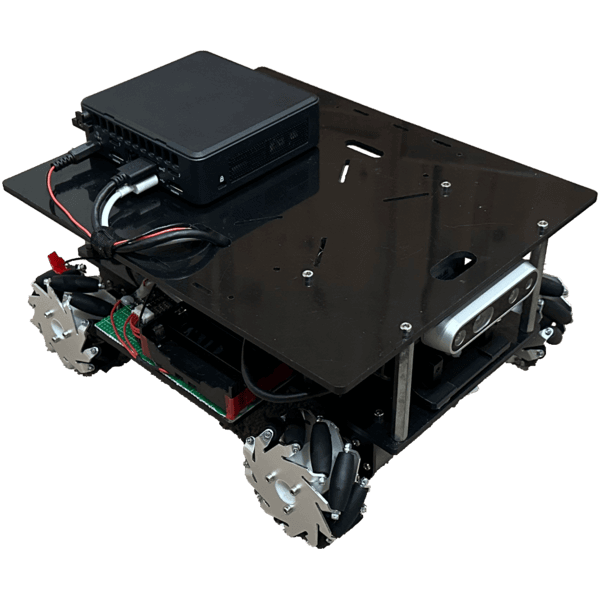
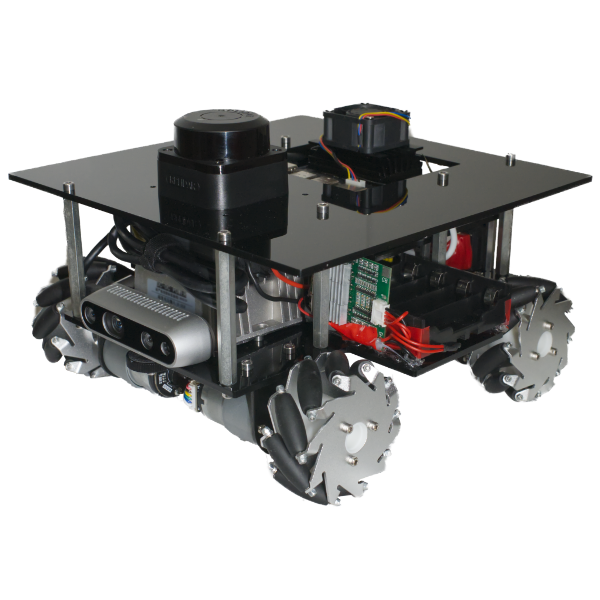
Update LGDXRobot2 (#299)
* feat:update lgdxrobot2

diff --git a/_posts/2025-02-16-lgdxrobot2.md b/_posts/2025-02-16-lgdxrobot2.md
@@ -5,7 +5,7 @@ date: 2025-02-16
 description:
 icon: /assets/img/robots/lgdxrobot2/icon.png
 image: /assets/img/robots/lgdxrobot2/image.png
-introduction: LGDXRobot2 is a DIY Mecanum wheel chassis for hobbyists with ROS2 integration.
+introduction: LGDXRobot2 is a flexible DIY Mecanum wheel chassis designed to inspire your enthusiasm on robotics.
 main-class: 'ground'
 color: '#80191e'
 tags:
@@ -17,16 +17,38 @@ tags:
 - 'open-source'
 twitter_text: Checkout the LGDXRobot2
 website: https://lgdxrobot.bristolgram.uk/lgdxrobot2/
-wiki_homepage: https://gitlab.com/yukaitung/lgdxrobot2-ros2
+wiki_homepage: https://docs.lgdxrobot.bristolgram.uk/lgdxrobot2
 ---
 
-LGDXRobot2 is a DIY Mecanum wheel chassis for hobbyists with ROS2 integration. It is designed to be a low-cost, flexible platform that supports various sizes and hardware configurations. Moreover, LGDXRobot2 includes a GUI tool for hardware testing and fine-tuning PID settings for motors, enabling users to build high-performance robots with ease.
+LGDXRobot2 is a DIY Mecanum wheel chassis designed for building ROS2 robots using low-cost hardware. It offers complete freedom to customise hardware specifications and aims to inspire your enthusiasm on robotics.
 
-Last but not least, LGDXRobot2 integrates with ROS2 and an in-house cloud platform, facilitating the development of fully-fledged robotics applications.
+<iframe src="https://drive.google.com/file/d/1XQNsLJJy9UkCBpRkZn5CCCO3f2i5fFlT/preview" width="560" height="405"></iframe>
 
-The entire LGDXRobot2 project is publicly available under the MIT or GPLv3 licences. Below are the GitLab repositories.
+## Fully Open-Source Robot
 
-* [Control Board Firmware](https://gitlab.com/yukaitung/lgdxrobot2-mcu)
-* [Chassis Tuner](https://gitlab.com/yukaitung/lgdxrobot2-chassistuner)
-* [ROS2 Package](https://gitlab.com/yukaitung/lgdxrobot2-ros2)
-* [In-house Cloud Platform](https://gitlab.com/yukaitung/lgdxrobot2-cloud)
+LGDXRobot2 provides open-source designs for the chassis body, controller board circuit, and software source code. All components are created using open-source tools, ensuring that your build is never restricted by licensing or paywalls.
+
+## Flexible Chassis Design
+
+LGDXRobot2 allows full freedom to customise hardware specifications, including chassis size, Mecanum wheels, and onboard computer. The flexible firmware is designed to adapt to a variety of hardware configurations, making prototyping and experimentation effortless.
+
+## Comprehensive Software Support
+
+LGDXRobot2 includes a graphical interface for hardware testing and fine-tuning motor PID settings, helping you build a high-performance robot with ease.
+
+It is fully integrated within the ROS2 ecosystem, providing example projects for both physical and simulated environments. A responsive web interface also allows convenient access to ROS2 GUI tools directly from your browser.
+
+## Cloud Connectivity
+
+LGDXRobot2 integrates seamlessly with LGDXRobot Cloud, enabling remote monitoring and management of your robot through a web-based interface.
+
+## Get Started
+
+LGDXRobot2 is distributed across several Git repositories. The project is released under the MIT Licence, except ChassisTuner, which is released under GPLv3.
+
+- [Homepage](https://lgdxrobot.bristolgram.uk/lgdxrobot2/)
+- [Documentation](https://docs.lgdxrobot.bristolgram.uk/lgdxrobot2/ros2/)
+- LGDXRobot2 Design: ([GitLab](https://gitlab.com/yukaitung/lgdxrobot2-design) | [GitHub](https://github.com/yukaitung/lgdxrobot2-design))
+- LGDXRobot2 MCU: ([GitLab](https://gitlab.com/yukaitung/lgdxrobot2-mcu) | [GitHub](https://github.com/yukaitung/lgdxrobot2-mcu))
+- LGDXRobot2 ChassisTuner: ([GitLab](https://gitlab.com/yukaitung/lgdxrobot2-chassistuner) | [GitHub](https://github.com/yukaitung/lgdxrobot2-chassistuner))
+- LGDXRobot2 ROS2: ([GitLab](https://gitlab.com/yukaitung/lgdxrobot2-ros2) | [GitHub](https://github.com/yukaitung/lgdxrobot2-ros2))
